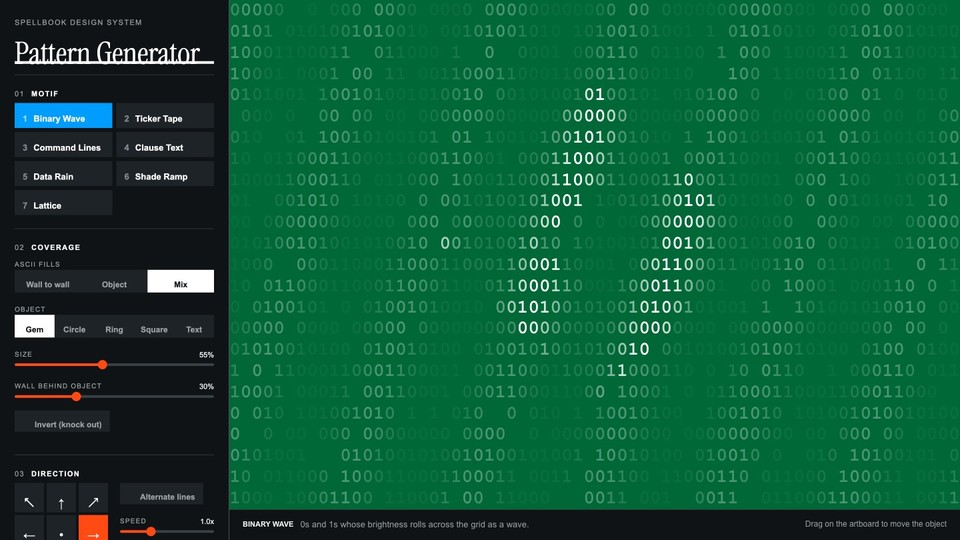
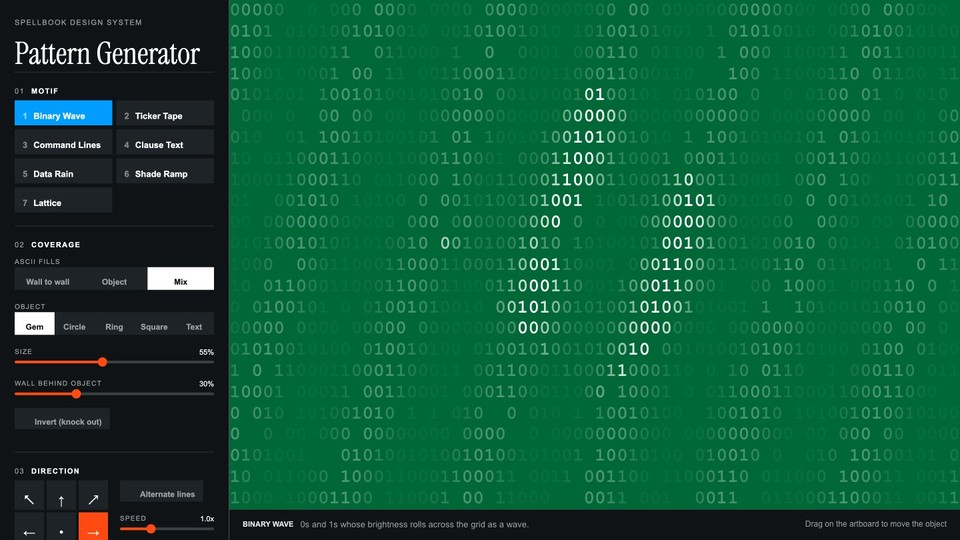
Pattern Generator: remove rule under the title; redo thumbnail and clip

diff --git a/pattern-generator/sketch.js b/pattern-generator/sketch.js
@@ -1,4 +1,4 @@
-const CSS = "\n  :root {\n    --bg: #0f1315; --plate: #1d2326; --fg: #ffffff; --grey: #9aa0a3; --line: rgba(255,255,255,.14);\n    --orange: #ff4a14; --yellow: #f5b800; --blue: #009dff; --green: #006837; --purple: #7a2fb4; --ink: #26292b;\n  }\n  * { box-sizing: border-box; }\n  html, body { margin: 0; height: 100%; background: var(--bg); color: var(--fg); font-family: Arial, Helvetica, sans-serif; }\n  #panel { position: fixed; left: 0; top: " + NAV_H + "px; bottom: 0; width: 344px; z-index: 5; overflow-y: auto; padding: 22px 22px 40px; background: var(--bg); border-right: 1px solid var(--line); }\n  #caption { position: fixed; left: 344px; right: 0; bottom: 0; height: 46px; display: flex; align-items: center; justify-content: space-between; gap: 16px; padding: 0 20px; background: var(--bg); border-top: 1px solid var(--line); font-size: 13px; color: var(--grey); }\n  #caption b { color: #fff; letter-spacing: 1.2px; font-size: 11px; margin-right: 10px; }\n  #caption .r { white-space: nowrap; font-size: 12px; }\n\n  .eyebrow { font-size: 11px; letter-spacing: 1.4px; color: var(--grey); margin: 0 0 6px; }\n  #panel h1 { font: 400 46px/1 'Instrument Serif', Georgia, serif; margin: 0 0 4px; }\n  .rule4 { height: 4px; background: #fff; margin-bottom: 16px; }\n\n  #panel section { border-top: 1px solid var(--line); padding: 16px 0 6px; margin-top: 14px; }\n  #panel h3 { margin: 0 0 12px; font-size: 11px; letter-spacing: 1.4px; font-weight: 700; color: #fff; display: flex; gap: 10px; }\n  #panel h3 span { color: var(--grey); font-weight: 400; }\n  .group { margin-bottom: 14px; transition: opacity .15s; }\n  .group.off { opacity: .3; pointer-events: none; }\n  .hide { display: none !important; }\n  .lbl { font-size: 10px; letter-spacing: 1.2px; color: var(--grey); margin: 0 0 7px; display: block; }\n\n  .motifs { display: grid; grid-template-columns: 1fr 1fr; gap: 6px; }\n  .motifs button { text-align: left; padding: 11px 12px; background: var(--plate); color: #fff; border: 0; font: 700 13px Arial; cursor: pointer; display: flex; gap: 9px; border-radius: 0; }\n  .motifs button b { opacity: .45; font-weight: 700; }\n  .motifs button:hover { background: #283034; }\n  .motifs button.on { background: var(--c); color: var(--ci); }\n  .motifs button.on b { opacity: .6; }\n\n  .seg { display: flex; gap: 0; background: var(--plate); }\n  .seg button { flex: 1; padding: 10px 6px; background: transparent; color: var(--grey); border: 0; font: 700 12px Arial; cursor: pointer; border-radius: 0; }\n  .seg button:hover { color: #fff; }\n  .seg button.on { background: #fff; color: var(--bg); }\n\n  .dirs { display: grid; grid-template-columns: repeat(3, 44px); gap: 4px; }\n  .dirs button { height: 44px; background: var(--plate); color: #fff; border: 0; font-size: 18px; cursor: pointer; border-radius: 0; }\n  .dirs button:hover { background: #283034; }\n  .dirs button.on { background: var(--orange); }\n  .dirrow { display: flex; gap: 18px; align-items: flex-start; }\n\n  .chip { display: inline-flex; align-items: center; gap: 8px; padding: 9px 12px; background: var(--plate); color: var(--grey); font: 700 12px Arial; border: 0; cursor: pointer; border-radius: 0; }\n  .chip i { width: 10px; height: 10px; border: 2px solid var(--grey); display: block; }\n  .chip.on { color: #fff; } .chip.on i { background: var(--orange); border-color: var(--orange); }\n\n  .sl { display: grid; grid-template-columns: 1fr auto; row-gap: 5px; margin-bottom: 13px; font-size: 12px; color: #fff; }\n  .sl span { font-size: 10px; letter-spacing: 1.2px; color: var(--grey); }\n  .sl output { font-size: 11px; color: #fff; font-variant-numeric: tabular-nums; }\n  .sl input { grid-column: 1 / 3; width: 100%; margin: 0; accent-color: var(--orange); }\n\n  input[type=text] { width: 100%; padding: 10px 12px; background: var(--plate); border: 1px solid transparent; color: #fff; font: 700 13px Arial; letter-spacing: 1px; border-radius: 0; margin-top: 8px; }\n  input[type=text]:focus { outline: none; border-color: var(--orange); }\n\n  .sw { display: flex; flex-wrap: wrap; gap: 6px; }\n  .sw button { width: 30px; height: 30px; border: 1px solid rgba(255,255,255,.35); cursor: pointer; padding: 0; border-radius: 0; }\n  .sw button.on { outline: 2px solid #fff; outline-offset: 2px; }\n  .sw .multi { background: conic-gradient(var(--orange) 0 25%, var(--green) 0 50%, var(--blue) 0 75%, var(--yellow) 0); }\n\n  .actions { display: grid; grid-template-columns: 1fr 1fr; gap: 6px; margin-top: 18px; }\n  .actions button { padding: 12px; border: 0; font: 700 12px Arial; letter-spacing: .5px; cursor: pointer; background: var(--plate); color: #fff; border-radius: 0; }\n  .actions button:hover { background: #283034; }\n  .actions .primary { background: #fff; color: var(--bg); grid-column: 1 / 3; }\n  .actions .primary:hover { background: #e8e8e8; }\n\n  \n  html, body { overflow: hidden; }\n";
+const CSS = "\n  :root {\n    --bg: #0f1315; --plate: #1d2326; --fg: #ffffff; --grey: #9aa0a3; --line: rgba(255,255,255,.14);\n    --orange: #ff4a14; --yellow: #f5b800; --blue: #009dff; --green: #006837; --purple: #7a2fb4; --ink: #26292b;\n  }\n  * { box-sizing: border-box; }\n  html, body { margin: 0; height: 100%; background: var(--bg); color: var(--fg); font-family: Arial, Helvetica, sans-serif; }\n  #panel { position: fixed; left: 0; top: " + NAV_H + "px; bottom: 0; width: 344px; z-index: 5; overflow-y: auto; padding: 22px 22px 40px; background: var(--bg); border-right: 1px solid var(--line); }\n  #caption { position: fixed; left: 344px; right: 0; bottom: 0; height: 46px; display: flex; align-items: center; justify-content: space-between; gap: 16px; padding: 0 20px; background: var(--bg); border-top: 1px solid var(--line); font-size: 13px; color: var(--grey); }\n  #caption b { color: #fff; letter-spacing: 1.2px; font-size: 11px; margin-right: 10px; }\n  #caption .r { white-space: nowrap; font-size: 12px; }\n\n  .eyebrow { font-size: 11px; letter-spacing: 1.4px; color: var(--grey); margin: 0 0 6px; }\n  #panel h1 { font: 400 46px/1 'Instrument Serif', Georgia, serif; margin: 0 0 20px; }\n  .rule4 { height: 4px; background: #fff; margin-bottom: 16px; }\n\n  #panel section { border-top: 1px solid var(--line); padding: 16px 0 6px; margin-top: 14px; }\n  #panel h3 { margin: 0 0 12px; font-size: 11px; letter-spacing: 1.4px; font-weight: 700; color: #fff; display: flex; gap: 10px; }\n  #panel h3 span { color: var(--grey); font-weight: 400; }\n  .group { margin-bottom: 14px; transition: opacity .15s; }\n  .group.off { opacity: .3; pointer-events: none; }\n  .hide { display: none !important; }\n  .lbl { font-size: 10px; letter-spacing: 1.2px; color: var(--grey); margin: 0 0 7px; display: block; }\n\n  .motifs { display: grid; grid-template-columns: 1fr 1fr; gap: 6px; }\n  .motifs button { text-align: left; padding: 11px 12px; background: var(--plate); color: #fff; border: 0; font: 700 13px Arial; cursor: pointer; display: flex; gap: 9px; border-radius: 0; }\n  .motifs button b { opacity: .45; font-weight: 700; }\n  .motifs button:hover { background: #283034; }\n  .motifs button.on { background: var(--c); color: var(--ci); }\n  .motifs button.on b { opacity: .6; }\n\n  .seg { display: flex; gap: 0; background: var(--plate); }\n  .seg button { flex: 1; padding: 10px 6px; background: transparent; color: var(--grey); border: 0; font: 700 12px Arial; cursor: pointer; border-radius: 0; }\n  .seg button:hover { color: #fff; }\n  .seg button.on { background: #fff; color: var(--bg); }\n\n  .dirs { display: grid; grid-template-columns: repeat(3, 44px); gap: 4px; }\n  .dirs button { height: 44px; background: var(--plate); color: #fff; border: 0; font-size: 18px; cursor: pointer; border-radius: 0; }\n  .dirs button:hover { background: #283034; }\n  .dirs button.on { background: var(--orange); }\n  .dirrow { display: flex; gap: 18px; align-items: flex-start; }\n\n  .chip { display: inline-flex; align-items: center; gap: 8px; padding: 9px 12px; background: var(--plate); color: var(--grey); font: 700 12px Arial; border: 0; cursor: pointer; border-radius: 0; }\n  .chip i { width: 10px; height: 10px; border: 2px solid var(--grey); display: block; }\n  .chip.on { color: #fff; } .chip.on i { background: var(--orange); border-color: var(--orange); }\n\n  .sl { display: grid; grid-template-columns: 1fr auto; row-gap: 5px; margin-bottom: 13px; font-size: 12px; color: #fff; }\n  .sl span { font-size: 10px; letter-spacing: 1.2px; color: var(--grey); }\n  .sl output { font-size: 11px; color: #fff; font-variant-numeric: tabular-nums; }\n  .sl input { grid-column: 1 / 3; width: 100%; margin: 0; accent-color: var(--orange); }\n\n  input[type=text] { width: 100%; padding: 10px 12px; background: var(--plate); border: 1px solid transparent; color: #fff; font: 700 13px Arial; letter-spacing: 1px; border-radius: 0; margin-top: 8px; }\n  input[type=text]:focus { outline: none; border-color: var(--orange); }\n\n  .sw { display: flex; flex-wrap: wrap; gap: 6px; }\n  .sw button { width: 30px; height: 30px; border: 1px solid rgba(255,255,255,.35); cursor: pointer; padding: 0; border-radius: 0; }\n  .sw button.on { outline: 2px solid #fff; outline-offset: 2px; }\n  .sw .multi { background: conic-gradient(var(--orange) 0 25%, var(--green) 0 50%, var(--blue) 0 75%, var(--yellow) 0); }\n\n  .actions { display: grid; grid-template-columns: 1fr 1fr; gap: 6px; margin-top: 18px; }\n  .actions button { padding: 12px; border: 0; font: 700 12px Arial; letter-spacing: .5px; cursor: pointer; background: var(--plate); color: #fff; border-radius: 0; }\n  .actions button:hover { background: #283034; }\n  .actions .primary { background: #fff; color: var(--bg); grid-column: 1 / 3; }\n  .actions .primary:hover { background: #e8e8e8; }\n\n  \n  html, body { overflow: hidden; }\n";
 
 
 const PAL = {
@@ -87,7 +87,7 @@ function setup() {
   document.body.style.background = '#0f1315';
   const panel = document.createElement('aside');
   panel.id = 'panel';
-  panel.innerHTML = '<p class="eyebrow">SPELLBOOK DESIGN SYSTEM</p><h1>Pattern Generator</h1><div class="rule4"></div>';
+  panel.innerHTML = '<p class="eyebrow">SPELLBOOK DESIGN SYSTEM</p><h1>Pattern Generator</h1>';
   document.body.appendChild(panel);
   const cap = document.createElement('div');
   cap.id = 'caption';

diff --git a/pattern-generator/index.html b/pattern-generator/index.html
@@ -31,7 +31,7 @@
     </header>
     <script>const NAV_H = 60;</script>
     <script src="https://cdnjs.cloudflare.com/ajax/libs/p5.js/1.9.4/p5.min.js"></script>
-    <script src="sketch.js"></script>
+    <script src="sketch.js?v=2"></script>
     <script src="../subnav.js?v=10"></script>
 </body>
 </html>
